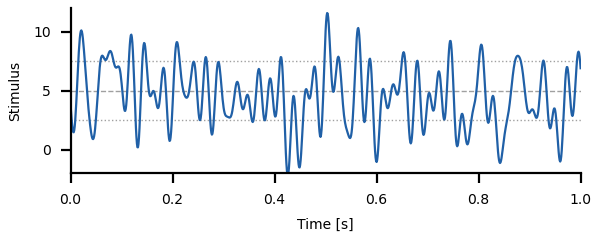
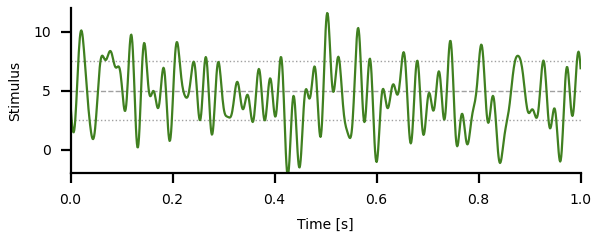
[filter] gain

Changed region(s): [[0.12, 0.0583, 0.99, 0.7]]

diff --git a/filter/filterplots.py b/filter/filterplots.py
@@ -19,7 +19,7 @@ def plot_whitenoise():
     ax.axhline(0.0, linestyle='--', color=colors['gray'], lw=0.5)
     ax.axhline(-1.0, linestyle=':', color=colors['gray'], lw=0.5)
     ax.axhline(+1.0, linestyle=':', color=colors['gray'], lw=0.5)
-    ax.plot(time, stimulus)
+    ax.plot(time, stimulus, color=colors['green'])
     ax.set_ylim(-3.5, 3.5)
     ax.set_xlabel('Time [s]')
     ax.set_ylabel('White noise')
@@ -39,7 +39,7 @@ def plot_stimulus():
     ax.axhline(mean, linestyle='--', color=colors['gray'], lw=0.5)
     ax.axhline(mean-stdev, linestyle=':', color=colors['gray'], lw=0.5)
     ax.axhline(mean+stdev, linestyle=':', color=colors['gray'], lw=0.5)
-    ax.plot(time, stimulus)
+    ax.plot(time, stimulus, color=colors['green'])
     ax.set_ylim(-2, 12)
     ax.set_xlabel('Time [s]')
     ax.set_ylabel('Stimulus')
@@ -58,11 +58,11 @@ def plot_stimulus_psd():
     freqs, psd = sig.welch(stimulus, fs=1.0/dt, nperseg=nfft)
     fig, axs = plt.subplots(1, 2, figsize=(figwidth, 0.4*figwidth))
     ax = axs[0]
-    ax.plot(freqs, psd)
+    ax.plot(freqs, psd, color=colors['green'])
     ax.set_xlabel('Frequency [Hz]')
     ax.set_ylabel('Power')
     ax = axs[1]
-    ax.plot(freqs, 10.0*np.log10(psd/np.max(psd)))
+    ax.plot(freqs, 10.0*np.log10(psd/np.max(psd)), color=colors['green'])
     ax.set_ylim(-20, 0)
     ax.set_xlabel('Frequency [Hz]')
     ax.set_ylabel('Power [dB]')
@@ -93,6 +93,43 @@ def plot_rate_psd():
     ax.set_ylabel('Power [dB]')
     fig.savefig('filter-ratepsd')
     
+
+def plot_ratetransfer():
+    """ Plot transfer fucntion for spike frequency.
+    """
+    dt = 0.0001               # integration time step in seconds
+    tmax = 500.0              # stimulus duration
+    cutoff = 1010.0           # highest frequency in stimulus
+    nfft = 2**14              # number of samples for Fourier trafo
+    stimulus = 5.0 + 2.5*filter.whitenoise(0.0, cutoff, dt, tmax)
+    time = np.arange(len(stimulus))*dt
+    rate, adapt = filter.adaptation(time, stimulus, alpha=0.05, taua=0.02)
+    # gain stimulus - rate:
+    freqs, csd = sig.csd(stimulus, rate, fs=1.0/dt, nperseg=nfft)
+    freqs, psd = sig.welch(stimulus, fs=1.0/dt, nperseg=nfft)
+    transfer = csd/psd
+    # gain is only meaningful up to cutoff frequency:
+    transfer = transfer[freqs<cutoff]
+    freqs = freqs[freqs<cutoff]
+    # gain:
+    gain = np.abs(transfer)
+    # plots:
+    fig, axs = plt.subplots(1, 2, figsize=(figwidth, 0.4*figwidth))
+    ax = axs[0]
+    ax.plot(freqs, gain, color=colors['orange'])
+    ax.set_xlabel('Frequency [Hz]')
+    ax.set_ylabel('Gain')
+    ax.set_xlim(0, 200)
+    ax.set_ylim(0, 30)
+    ax.yaxis.set_major_locator(ticker.MultipleLocator(10.0))
+    ax = axs[1]
+    ax.plot(freqs, gain, color=colors['orange'])
+    ax.set_xscale('log')
+    ax.set_yscale('log')
+    ax.set_ylim(10, 40)
+    ax.set_xlabel('Frequency [Hz]')
+    fig.savefig('filter-rategain')
+
 
 def plot_transfer(axf, axfl, axa, axal):
     """ Plot transfer fucntion for spike frequency and adaptation level.
@@ -143,6 +180,7 @@ if __name__ == "__main__":
     plot_stimulus()
     plot_stimulus_psd()
     plot_rate_psd()
+    plot_ratetransfer()
 
 
     

diff --git a/filter/README.md b/filter/README.md
@@ -180,7 +180,7 @@ freqs, psd = sig.welch(rate, fs=1.0/dt, nperseg=nfft)
 These spectra differ in two respects from the stimulus spectra. First,
 we see the high-pass filter effect of adaptation. Low frequency
 components are attenuated. Second, we have power at frequencies higher
-then the cutoff frequency of the stimulus. This high-frequency power
+than the cutoff frequency of the stimulus. This high-frequency power
 results from the non-linear shape of the *f-I* curves.
 
 > How does the adaptation time constant influence the response spectrum?
@@ -189,3 +189,65 @@ results from the non-linear shape of the *f-I* curves.
 > response spectrum?
 
 
+## Transfer function
+
+The transfer function relates the response to the stimulus at each
+frequency component. It is computed from the cross-spectrum between
+stimulus and response (`scipy.signal.csd()` function), divided by the
+power spectrum of the stimulus. The cross spectrum is very similar to
+a power spectrum. Instead of taking the square of the Fourier
+transformation of a signal, it multiplies the Fourier transformations
+of two different signals, here the ones of the response and the
+stimulus.
+
+```
+freqs, csd = sig.csd(stimulus, rate, fs=1.0/dt, nperseg=nfft)
+freqs, psd = sig.welch(stimulus, fs=1.0/dt, nperseg=nfft)
+transfer = csd/psd
+```
+
+Since we divide by the stimulus power spectrum, and since by
+construction of the white noise stimulus there is no stimulus
+component at frequencies higher than the cut-off frequency (division
+by zero!), the transfer function at frequencies beyond the cut-off
+frequency of the stimulus is not meaningful. We therefore only keep
+values below the cutoff frequency:
+
+```
+transfer = transfer[freqs<cutoff]
+freqs = freqs[freqs<cutoff]
+```
+
+The transfer function is a complex valued function of the
+frequencies. Its magnitude (absolute value) is the *gain*:
+
+```
+gain = np.abs(transfer)
+ax.plot(freqs, gain)
+```
+
+![rategain](filter-rategain.png)
+
+This figure was computed with the following parameters:
+```
+tmax = 500.0
+cutoff = 1000.0
+nfft = 2**14
+```
+The right panel is a double logarithmic plot of the same gain values
+shown in the left panel. The first-order high-pass filter of
+adaptation is clearly visible.
+
+Imagine a sine-wave stimulus with a certain amplitude. Then the
+response of the neuron is also a sine wave (if it behaves sufficiently
+linear). Its firing rate is modulated sinusoidaly with some
+amplitude. This amplitude of the response, the firing rate, divided by
+the amplitude of the stimulus is the gain at the frequency of the
+stimulus. The higher the gain, the strong the amplitude modulation of
+the response. The unit of the gain is the unit of the response divided
+by the unit of the stimulus.
+
+> How do the adaptation time constant and the adaptation strength influence the gain?
+
+> Vary the stimulus mean and standard deviation. Do they influence the
+> gain?
